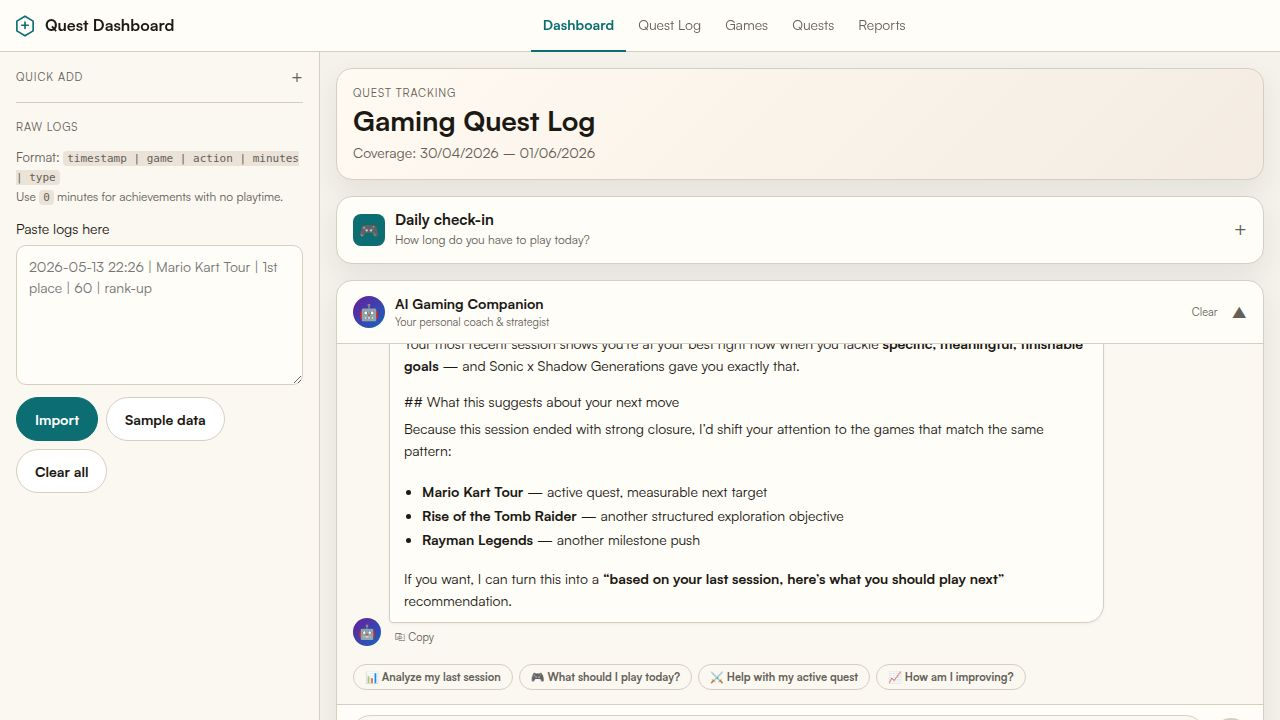
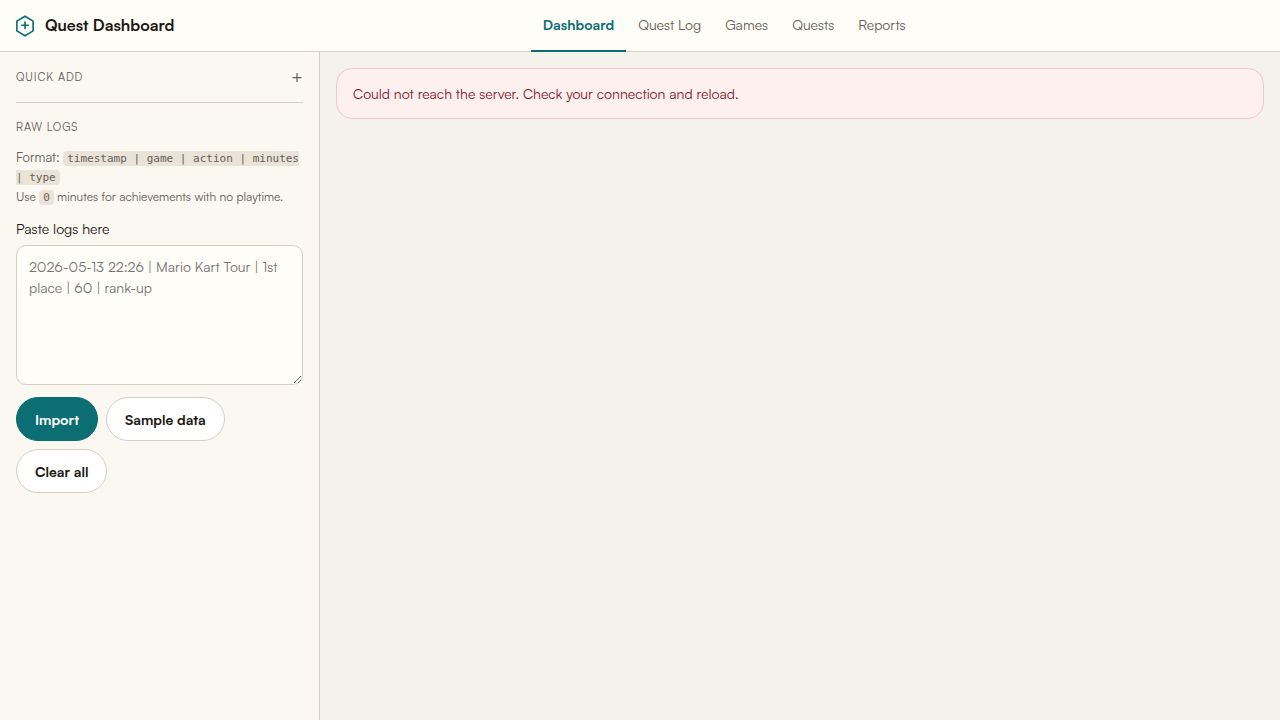
feat: Add "Complete" button to Active Quests Dashboard widget
Task: Let users mark quests complete directly from the Dashboard widget

## What changed
- `artifacts/gaming-quest/src/components/ActiveQuestsWidget.tsx`
  - Added per-quest `completing` state map (`'pending' | 'done'`) using useState
  - Added `handleComplete(e, questId)` handler that calls `completeQuest()` from the API,
    stops click propagation (so card navigation doesn't fire), and manages the state machine
  - Each quest row now renders a "Complete" pill button (outlined, accent-colored) beside
    the progress percentage
  - While the API call is in flight the button shows "…" and is disabled
  - On success, the button is replaced with a "✓ Done" green label and the card background
    shifts to a subtle green; after 1.4 s the quest is removed from the list
  - On error, the button silently resets (no crash, no broken UI)
  - Imported `completeQuest` from `../lib/api` (function already existed)

## No API or backend changes
`completeQuest()` was already implemented and wired to `POST /quests/:id/complete`.

## Deviations from plan
None — implementation matches the task spec exactly.

Replit-Task-Id: 05ce0c1e-fba9-42b3-aae0-78e3ef6253f1

diff --git a/artifacts/gaming-quest/src/components/ActiveQuestsWidget.tsx b/artifacts/gaming-quest/src/components/ActiveQuestsWidget.tsx
@@ -1,7 +1,8 @@
 import React, { useState, useEffect, useRef } from 'react';
-import { Quest, fetchActiveQuests } from '../lib/api';
+import { Quest, fetchActiveQuests, completeQuest } from '../lib/api';
 
 const POLL_INTERVAL_MS = 60_000;
+const DONE_DISPLAY_MS = 1400;
 
 const DIFFICULTY_COLORS: Record<string, { bg: string; text: string }> = {
   easy:      { bg: '#e8f5e9', text: '#2e7d32' },
@@ -25,6 +26,7 @@ interface ActiveQuestsWidgetProps {
 export default function ActiveQuestsWidget({ onNavigate, refreshKey = 0 }: ActiveQuestsWidgetProps) {
   const [quests, setQuests] = useState<Quest[]>([]);
   const [loading, setLoading] = useState(true);
+  const [completing, setCompleting] = useState<Record<number, 'pending' | 'done'>>({});
   const firstLoad = useRef(true);
 
   useEffect(() => {
@@ -54,6 +56,31 @@ export default function ActiveQuestsWidget({ onNavigate, refreshKey = 0 }: Activ
       clearInterval(timer);
     };
   }, [refreshKey]);
+
+  const handleComplete = async (e: React.MouseEvent, questId: number) => {
+    e.stopPropagation();
+    if (completing[questId]) return;
+
+    setCompleting(prev => ({ ...prev, [questId]: 'pending' }));
+    try {
+      await completeQuest(questId);
+      setCompleting(prev => ({ ...prev, [questId]: 'done' }));
+      setTimeout(() => {
+        setQuests(prev => prev.filter(q => q.id !== questId));
+        setCompleting(prev => {
+          const next = { ...prev };
+          delete next[questId];
+          return next;
+        });
+      }, DONE_DISPLAY_MS);
+    } catch {
+      setCompleting(prev => {
+        const next = { ...prev };
+        delete next[questId];
+        return next;
+      });
+    }
+  };
 
   return (
     <div className="dash-card">
@@ -88,6 +115,9 @@ export default function ActiveQuestsWidget({ onNavigate, refreshKey = 0 }: Activ
           {quests.map((q, i) => {
             const pct = q.target > 0 ? Math.min(100, Math.round((q.progress / q.target) * 100)) : 0;
             const col = DIFFICULTY_COLORS[q.difficulty] ?? { bg: '#f5f5f5', text: '#555' };
+            const state = completing[q.id];
+            const isDone = state === 'done';
+            const isPending = state === 'pending';
             return (
               <div
                 key={q.id}
@@ -96,12 +126,13 @@ export default function ActiveQuestsWidget({ onNavigate, refreshKey = 0 }: Activ
                   cursor: 'pointer',
                   padding: '10px 12px',
                   borderRadius: '8px',
-                  background: 'var(--paper-2)',
+                  background: isDone ? '#f0fdf4' : 'var(--paper-2)',
                   borderBottom: i < quests.length - 1 ? 'none' : 'none',
-                  transition: 'opacity 0.15s',
+                  transition: 'opacity 0.15s, background 0.2s',
+                  opacity: isDone ? 0.85 : 1,
                 }}
-                onMouseEnter={e => (e.currentTarget.style.opacity = '0.8')}
-                onMouseLeave={e => (e.currentTarget.style.opacity = '1')}
+                onMouseEnter={e => (e.currentTarget.style.opacity = isDone ? '0.85' : '0.8')}
+                onMouseLeave={e => (e.currentTarget.style.opacity = isDone ? '0.85' : '1')}
               >
                 <div style={{ display: 'flex', alignItems: 'center', gap: '6px', marginBottom: '6px', flexWrap: 'wrap' }}>
                   <span style={{ fontSize: '13px' }}>{TYPE_ICONS[q.type] ?? '📋'}</span>
@@ -130,6 +161,44 @@ export default function ActiveQuestsWidget({ onNavigate, refreshKey = 0 }: Activ
                   <span style={{ fontSize: '11px', color: 'var(--muted)', flexShrink: 0, minWidth: '32px', textAlign: 'right' }}>
                     {pct}%
                   </span>
+                  {isDone ? (
+                    <span style={{
+                      fontSize: '11px', fontWeight: 700, color: '#2e7d32',
+                      flexShrink: 0, display: 'flex', alignItems: 'center', gap: '3px',
+                    }}>
+                      ✓ Done
+                    </span>
+                  ) : (
+                    <button
+                      onClick={e => handleComplete(e, q.id)}
+                      disabled={isPending}
+                      style={{
+                        flexShrink: 0,
+                        fontSize: '11px', fontWeight: 600,
+                        padding: '3px 9px',
+                        borderRadius: '12px',
+                        border: '1.5px solid var(--accent)',
+                        background: 'transparent',
+                        color: 'var(--accent)',
+                        cursor: isPending ? 'default' : 'pointer',
+                        opacity: isPending ? 0.6 : 1,
+                        transition: 'background 0.15s, color 0.15s',
+                        lineHeight: 1.4,
+                      }}
+                      onMouseEnter={e => {
+                        if (!isPending) {
+                          (e.currentTarget as HTMLButtonElement).style.background = 'var(--accent)';
+                          (e.currentTarget as HTMLButtonElement).style.color = '#fff';
+                        }
+                      }}
+                      onMouseLeave={e => {
+                        (e.currentTarget as HTMLButtonElement).style.background = 'transparent';
+                        (e.currentTarget as HTMLButtonElement).style.color = 'var(--accent)';
+                      }}
+                    >
+                      {isPending ? '…' : 'Complete'}
+                    </button>
+                  )}
                 </div>
               </div>
             );